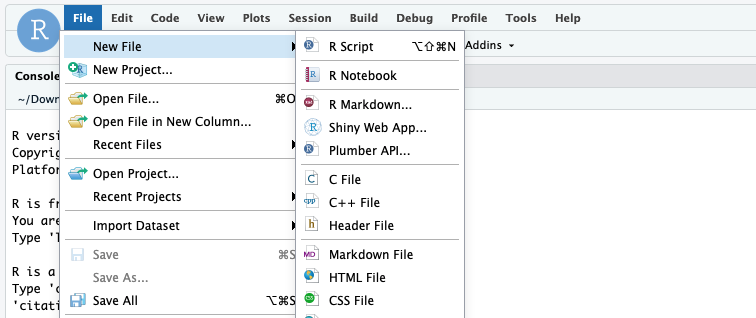
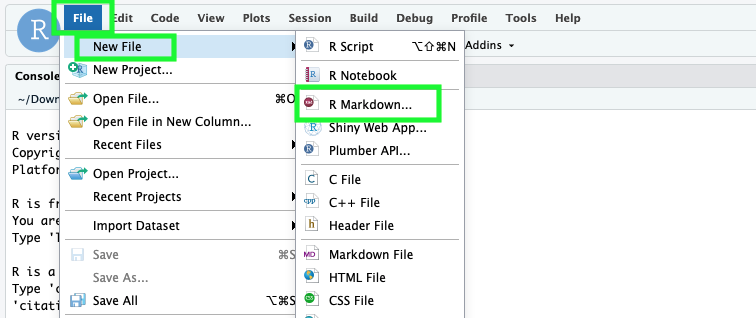
update

Changed region(s): [[0.0608, 0.0, 0.2434, 0.1981], [0.3651, 0.2547, 0.6085, 0.3962]]

diff --git a/jpa-tws-jpaRmd/09.html b/jpa-tws-jpaRmd/09.html
@@ -35,7 +35,7 @@ class: center, middle
 &lt;img  src="fig/36.png" width="400"  align="right"&gt;
 - 投稿したら，査読者からのコメント対応も必要となる。
 - リプライと修正対照表の作成もR Markdownで可能です。
-- jpaRmdのテンプレートから，「Reply to Reviewer」を選択して，「OK」をクリック
+- 「From Template」から，「Reply to Reviewer {jpaRmd}」を選択して，「OK」をクリック
 ---
 # 査読へのリプライと修正対照表の作成(2)
 
@@ -53,10 +53,13 @@ class: center, middle
 
 - 書けたらknitをクリックするとPDFが出力される。
 ---
-- リプライは以下のようになる
-&lt;img  src="fig/39.png" width="650"&gt;
-- 修正対照表は以下のようになる
-&lt;img  src="fig/40.png" width="650"&gt;
+- **リプライ**
+
+&lt;img  src="fig/39.png" width="550"&gt;
+
+- **修正対照表**
+
+&lt;img  src="fig/40.png" width="550"&gt;
 
 ---
 # 無慈悲なWordでの原稿提出要求
@@ -64,7 +67,7 @@ class: center, middle
 &lt;img  src="fig/41.png" width="300"  align="right"&gt;
 - R Markdownで出力される原稿が美しいので，自己満足に浸っていたら，採択後の原稿提出でWordが指定されることが・・・（他にもPDFはNGな共著者もいるかもしれない・・・）
 
-→ じわじわとR Markdownで使ったことを後悔してしまうかも・・・
+→ R Markdownで使ったことを後悔・・・
 
 ---
 # 心配ご無用！Pandocがある！
@@ -76,10 +79,10 @@ knitrのpandoc()で，PDF作成時に出力されるtexファイルをWordに変
 - フォーマットは美しくないが，wordで出力される。Word入稿，Wordの校閲機能好きな共著者への送付もできる。
 &lt;img  src="fig/35.png" width="650"&gt;
 ---
-# 専修大学心理学科卒論用Rmd
+# senshuRmd.med[(専修大学心理学科用テンプレート)]
 - R Markdownテンプレートの活用は，「心理学研究」に限定されない。卒業論文や修士論文で活用しては？
 - senshuRmd(https://github.com/ykunisato/senshuRmd )は，専修大学の心理学科の卒論で求められる形式のPDF出力するRMarkdownテンプレート用Rパッケージ
-- 国里ゼミでは，Rstudioサーバーにゼミ生のアカウントをつくって，ゼミ生はこのRmdを更新＆Githubでバージョン管理しつつ卒論を執筆する（指導教員としては，卒業研究のみに指導を集中できるので，楽になりました）。
+- 国里ゼミでは，Rstudioサーバーにゼミ生のアカウントをつくって，ゼミ生はこのRmdを更新＆Githubでバージョン管理しつつ卒論を執筆する（指導教員としては，卒業研究のみに指導を集中できるので，すごく楽になりました。ゼミ論集もそのまま出力にもっていける）。
 ---
 # 方法の再現可能性の問題：データ共有の低さ
 
